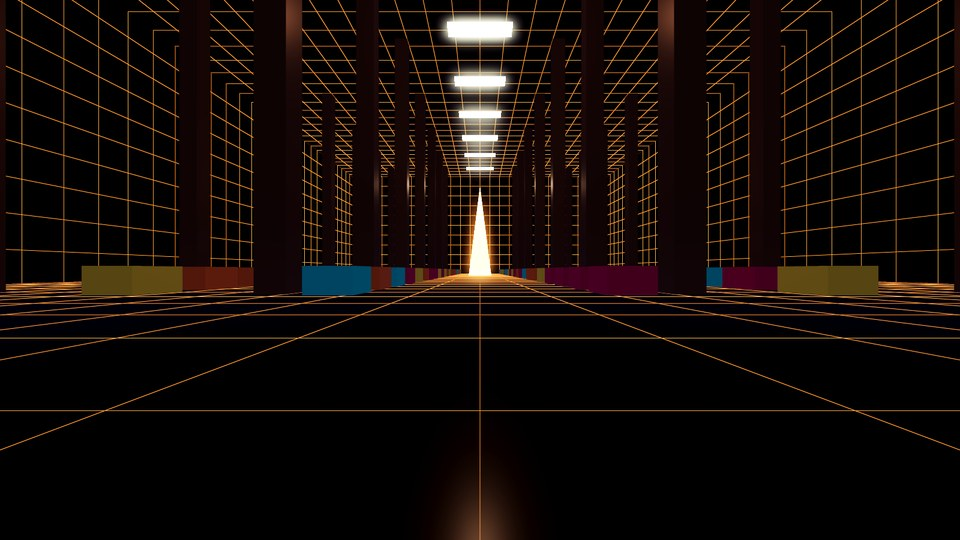
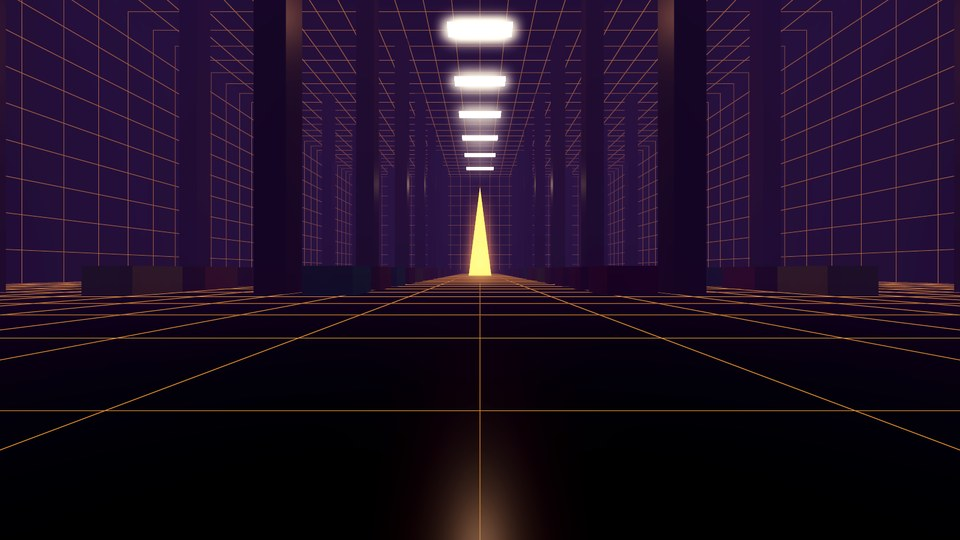
Re-render screenshots in the cyberpunk look; README for walking and interiors
- 13 headless renders: five interior views (entrance, corridor, flat,
  shop, window with the floor/room read-out), the on-foot start, and
  the roof, shaft, canyon, deep-city and doorway views re-rendered
- README: sun only on the top layer, neon below; how walk-in interiors
  work; new controls (walk, jump, sprint, F to fly); changes table,
  roadmap and limitations updated
- add-block-interiors tasks 5.1 and 5.2 done

Claude-Session: https://claude.ai/code/session_014fznqyezUmWiaiaD6hbUYz

diff --git a/README.md b/README.md
@@ -1,23 +1,31 @@
 # Infinite City
 
-A science-fiction city of floating blocks in space, built with **Godot 4.7**. The city has exactly
-one border, its roof. Above it float a few stray blocks, and beyond them there is only a single
-light source. Downward and to every side the city never ends. Canyons and shafts open it up for
-travel in every direction, bridges join neighbouring blocks, and some doors open into spaces far
-bigger than the blocks that hold them.
+A science-fiction city of floating blocks in space, built with **Godot 4.7**. Cyberpunk in
+blockspace: the city has exactly one border, its roof. Only the uppermost layer sees the light
+source above it; everything below lives on neon, lamps and lit windows, deep in a violet fog.
+Downward and to every side the city never ends. Canyons and shafts open it up for travel in
+every direction, bridges join neighbouring blocks, and you can walk across them into any block:
+along its corridors, up its stairs and into flats, shops, farms and offices. Some doors open
+into spaces far bigger than the blocks that hold them.
 
-| Above the roof | Up a shaft to the light |
+| On a bridge, 21 layers down | Inside: the corridor behind the entrance |
 |---|---|
+| ![Entrance](docs/images/interior-entrance.jpg) | ![Corridor](docs/images/interior-corridor.jpg) |
+| **A flat's living room** | **A shop** |
+| ![Flat](docs/images/interior-flat.jpg) | ![Shop](docs/images/interior-shop.jpg) |
+| **Out of the window into the canyon** (with the read-out) | **On foot at the start** |
+| ![Window](docs/images/interior-window.jpg) | ![On foot](docs/images/on-foot.jpg) |
+| **Above the roof: the only sunlit layer** | **Up a shaft to the light** |
 | ![Roof](docs/images/roof.jpg) | ![Shaft](docs/images/shaft-light.jpg) |
-| **Inside a canyon, 20 layers down** | **640,000 km down: same precision** |
+| **Inside a canyon, 22 layers down** | **640,000 km down: same precision** |
 | ![Canyon](docs/images/canyon.jpg) | ![Deep](docs/images/deep.jpg) |
-| **A doorway on a market block…** | **…opens into a 207 × 79 × 288 m bazaar** |
+| **A magic doorway…** | **…opens into a hall hundreds of metres long** |
 | ![Doorway outside](docs/images/doorway-outside.jpg) | ![Doorway inside](docs/images/doorway-inside.jpg) |
 | **Looking back out at the city from inside** | |
 | ![Look back](docs/images/doorway-look-back.jpg) | |
 
-All images are rendered headless by `scripts/screenshot.sh` with software OpenGL, so the real
-game looks crisper.
+All images are rendered headless by `scripts/screenshot.sh` with software OpenGL (the
+Compatibility renderer), so the real game looks crisper.
 
 ## Can this be done? Yes, and here is how
 
@@ -38,13 +46,44 @@ The city is not a heightmap. It is a **3D lattice of 64 m cells**, and every cel
   that changes with depth (farms and industry deep down, markets and offices near the roof).
   Every district has exactly one hospital, fire station, security station, school, power
   plant, water works and transit hub.
+- **One floor grid:** block heights are whole 4 m floors and every bridge deck lies on a floor
+  and on the line through both cell centres, so every bridge arrives at a corridor.
 - **Streaming:** 4×4×4-cell chunks (~2 ms each in GDScript) load nearest first in an ellipsoid
   around the player, with a per-frame budget.
 - **Floating origin:** float32 positions lose precision kilometres from the origin. So all scene
-  positions are relative to an *integer* origin chunk that follows the camera. Precision at
+  positions are relative to an *integer* origin chunk that follows the player. Precision at
   10 million layers down is the same as at the roof (see the deep screenshot).
 
-### 2. Magic doorways (bigger on the inside)
+### 2. Cyberpunk light: sun on top, neon below
+
+- **Sunlight only on the uppermost layer.** The block, bridge and façade shaders mask the
+  directional light by height (it fades out within 16 m below the roof layer) and the light
+  dims to nothing as the player descends. Interiors are on their own visual layer the sun
+  never reaches.
+- **Dark and foggy:** near-zero ambient light, exponential fog that limits sight to a few
+  hundred metres below the roof and darkens with depth, filmic tone mapping and bloom.
+- **Artificial light:** neon signs on the façades (markets the most, every service in its own
+  colour, some flickering), lamps along every bridge, lit windows in a neon-tinted palette, and
+  a pool of 12 real lights that follows the player to the nearest signs, lamps and room lights.
+
+### 3. Walk-in interiors for every block
+
+- **A plan for every block,** derived from (seed, cell) like everything else: a corridor cross
+  along the cell centre lines reaching all four faces, more corridors in deep blocks, rows of
+  units facing the corridors, a switchback stair core from the lowest floor to a hut on the roof,
+  entrances where bridges arrive and windows on the façade's 4 m grid.
+- **Furnished units:** flats get a bathroom, kitchen, bedroom and living room; shops, offices,
+  farms, workshops, gardens, wards, classrooms, fire and security stations, plants and halls get
+  their own themed furniture. A furnisher places items against walls or in grids and rejects
+  anything that blocks a door. Every room has a ceiling light.
+- **Only nearby blocks are built:** within 12 m of the player (at most two), one floor per frame
+  (~1.5 ms) starting at the player's floor. Only when every floor exists is the block's sealed
+  box swapped for the real shell, so the swap is invisible. Full collision exists only for the
+  player's floor and the floors next to it; the outer shell is solid everywhere.
+- **Moody rooms:** only the room lights of the player's floor join the light pool, with a soft
+  falloff, so rooms are lit in warm, cool or neon tones while the rest of the block stays dark.
+
+### 4. Magic doorways (bigger on the inside)
 
 - **Doorways are transform pairs.** The outer door A sits on a block; the inner door B sits on
   the wall of the pocket space. A pose is carried through with `M = B · R_y(π) · A⁻¹`, so what is
@@ -55,12 +94,10 @@ The city is not a heightmap. It is a **3D lattice of 64 m cells**, and every cel
 - **Live view:** a second camera in a `SubViewport` takes `M · camera`. The door surface shows
   its image at `SCREEN_UV`. Its near plane is clipped at the far door, so walls in between
   never block the view.
-- **Seamless crossing:** when the camera crosses the door plane from the front, inside the
-  opening, it is moved through `M` in the same frame, keeping position, view direction and
-  speed. Crossing from behind does nothing. The city around the entrance stays loaded while
-  you are inside, so stepping out again is instant.
-- **Teleporters** are the easier cousin: an instant jump plus a floating-origin rebase. That is
-  the next proposed change (see the roadmap).
+- **Seamless crossing,** flying or on foot: when the player crosses the door plane from the
+  front, inside the opening, they are moved through `M` in the same frame, keeping position,
+  view direction and speed. Crossing from behind does nothing. The city around the entrance
+  stays loaded while you are inside, so stepping out again is instant.
 
 ## Running it
 
@@ -68,9 +105,12 @@ The city is not a heightmap. It is a **3D lattice of 64 m cells**, and every cel
    on Linux.
 2. Open the project folder in Godot and press **Play**, or run `godot --path .`.
 
-Controls: **click** to look around, **WASD** to fly, **Space/E** up, **Q/Ctrl** down,
-**Shift** boost, **mouse wheel** changes speed, **Esc** releases the mouse. You start at the rim
-of a shaft. Fly towards any glowing violet doorway and straight through it.
+You start on foot on a roof at the rim of a shaft, near the top of the city. **Click** to look
+around, **WASD** to walk, **Space** to jump, **Shift** to sprint. Walk along a bridge into any
+block, follow the corridor, take the stairs. **F** switches to flying (**Space/E** up,
+**Q/Ctrl** down, **Shift** boost, **mouse wheel** changes speed) and back. **Esc** releases the
+mouse. Walk or fly through any glowing violet doorway. The read-out at the top left names the
+cell, depth, district, and inside a block the floor and the room.
 
 ## How it is developed: OpenSpec + test-driven development
 
@@ -90,39 +130,48 @@ Git history follows this rhythm (*Propose → Implement → Archive*) for each c
 | `add-city-generation` | `city-layout`, `city-zoning`, `city-bridges` |
 | `add-world-streaming` | `world-streaming`, `floating-origin`, `city-rendering`, `free-flight` |
 | `add-pocket-doorways` | `pocket-doorways`, `pocket-spaces`, `portal-traversal` |
+| `add-cyberpunk-atmosphere` | `city-lighting`, `city-rendering` |
+| `add-on-foot-movement` | `on-foot-movement`, `free-flight`, `city-rendering`, `pocket-spaces`, `portal-traversal` |
+| `add-block-interiors` | `block-interiors`, `city-layout`, `city-bridges` |
 
 ```bash
 scripts/install-godot.sh              # once: Godot 4.7.2 into .tools/godot/
-scripts/test.sh                       # 189 GUT tests, headless (~25 s)
-scripts/test.sh -gselect=portal       # only test files matching "portal"
-scripts/screenshot.sh out.png --doorway --inside   # headless render (needs Xvfb)
+scripts/test.sh                       # 259 GUT tests, headless (~90 s)
+scripts/test.sh -gselect=interior     # only test files matching "interior"
+scripts/screenshot.sh out.jpg --doorway --inside           # headless render (needs Xvfb)
+scripts/screenshot.sh out.jpg --interior=flat --pos=100,-1300,60
 openspec list --specs                 # current capabilities
 openspec validate --all --strict      # spec hygiene (also run in CI)
 ```
 
 Pure logic lives in `src/core/` (no scene tree, fully unit-tested). Scene nodes live in
-`src/world/` (integration-tested). GitHub Actions runs the GUT suite and strict OpenSpec
-validation on every push. Static typing is enforced, so untyped declarations are parse errors.
+`src/world/` (integration-tested, including walking through an entrance and up a flight of
+stairs with real physics). GitHub Actions runs the GUT suite and strict OpenSpec validation on
+every push. Static typing is enforced, so untyped declarations are parse errors.
 
 ## Roadmap (next OpenSpec changes)
 
 1. **`add-teleport-network`**: transit hubs (one per district) linked to neighbouring hubs and
    to express hubs far above and below. Instant jumps with a rebase.
 2. **`add-flying-traffic`**: lanes through gaps, canyons and shafts. Cars placed by
-   `f(lane, time)`, so traffic is deterministic and only simulated near the player.
-3. **`add-on-foot-movement`**: collision for blocks and bridges near the player, walking and
-   gravity, entering doorways on foot.
-4. **`add-city-connections`**: long-span bridges across canyons, lifts and stairs between layers.
-5. **`add-block-interiors`**: ordinary interiors (homes, farms, hospitals) and services that
-   work: fire stations dispatch, hospitals treat.
-6. **Performance:** chunk generation on worker threads, level of detail beyond the streaming
-   radius, lower-resolution portal views.
+   `f(lane, time)`, so traffic is deterministic and only simulated near the player. Their
+   headlights and neon underglow would light the canyons.
+3. **`add-city-connections`**: long-span bridges across canyons, lifts in the stair cores,
+   stairs between layers.
+4. **`add-city-life`**: people in corridors and flats, doors that open, interactive objects,
+   and services that work: fire stations dispatch, hospitals treat.
+5. **Atmosphere:** rain, steam vents, volumetric light shafts from the roof.
+6. **Performance:** chunk and interior generation on worker threads, level of detail beyond the
+   streaming radius, lower-resolution portal views.
 7. **Gameplay:** what the player *does* in the city. A story, jobs, exploration goals. This is
    the big open design question.
 
 ## Known limitations of this prototype
 
-- The player is a free-flying spectator: no collision yet.
+- Only the two blocks nearest the player have real interiors; further away the façades show
+  painted windows. Entering a block is seamless, but the lit-window pattern changes when a block
+  is swapped for its interior.
+- Lights cast no shadows, so walls and floors do not block light. That is why only the
+  player's floor is lit.
 - One live portal at a time. Other doorways shimmer until you are within 160 m.
-- There are no shadows from the light source, because the area is too large. Depth is
-  conveyed by an atmosphere that darkens and by lit windows instead.
+- Furniture is made of boxes.

diff --git a/openspec/changes/add-block-interiors/tasks.md b/openspec/changes/add-block-interiors/tasks.md
@@ -22,8 +22,8 @@
 
 ## 5. Visual check and integration
 
-- [ ] 5.1 Render screenshots: walking up to an entrance, a corridor, a furnished flat, a shop or farm unit, the view out of a window; verify by eye
-- [ ] 5.2 Run `scripts/test.sh` (all green) and `openspec validate --all --strict`
+- [x] 5.1 Render screenshots: walking up to an entrance, a corridor, a furnished flat, a shop or farm unit, the view out of a window; verify by eye
+- [x] 5.2 Run `scripts/test.sh` (all green) and `openspec validate --all --strict`
 
 ## Workflow follow-up
 
